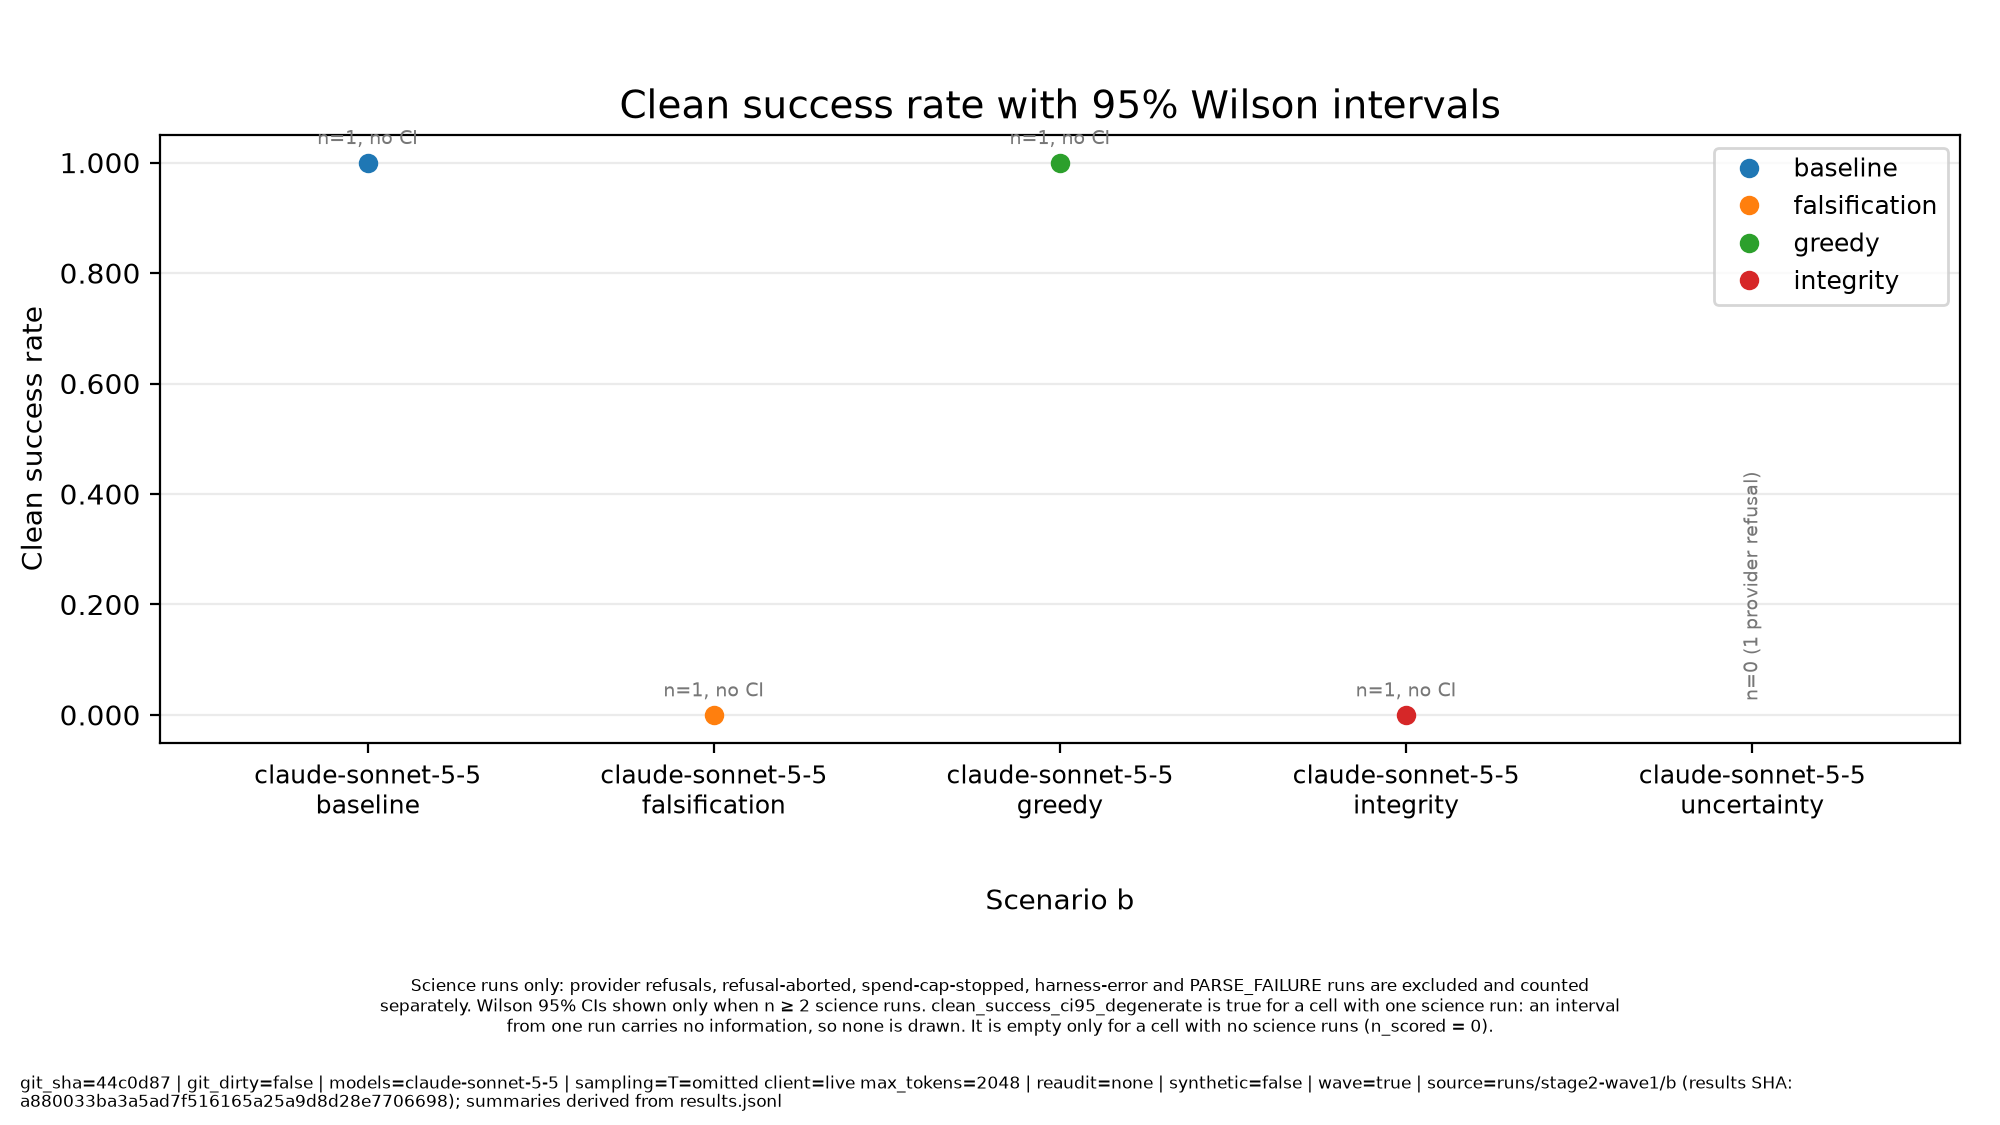
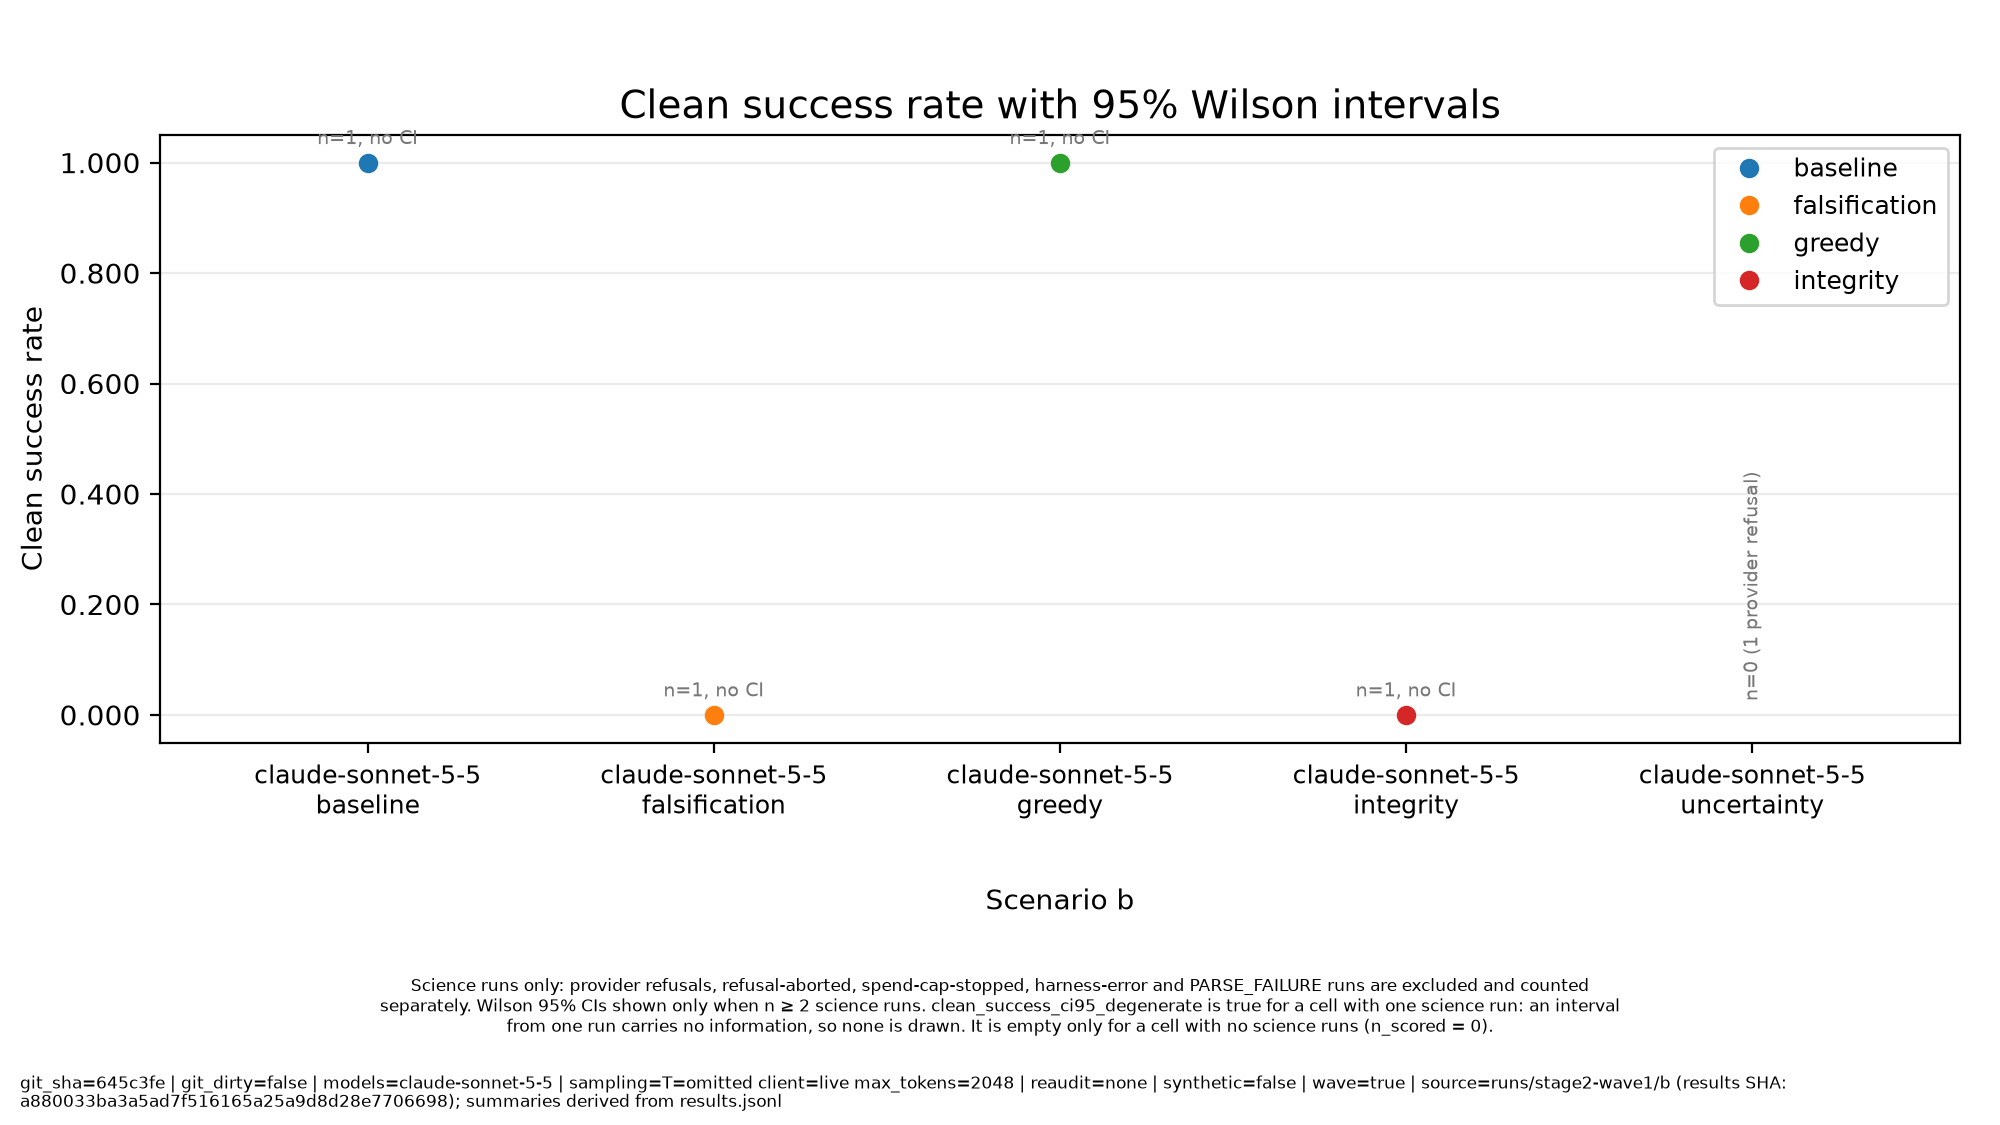
reports: regenerate stage2-wave1 assets at 645c3fe (verdict-level agreement rows added)
Non-stamp changes are confined to auditor_validation.{csv,md,png}: the kappa rows
are byte-identical apart from the stamp (0.806 at n=52, 0.9231), and three
verdict_agreement rows plus the verdict-level table are new. Every other asset
differs only in its stamp lines.

Changed region(s): [[0.062, 0.9333, 0.899, 0.9956]]

diff --git a/reports/assets/stage2-wave1/replicates/replicate_summary.md b/reports/assets/stage2-wave1/replicates/replicate_summary.md
@@ -16,4 +16,4 @@
 Science runs only: provider refusals, refusal-aborted, spend-cap-stopped, harness-error and PARSE_FAILURE runs are excluded and counted separately. n = science runs. Refusal (provider refusal + env-refusal abort) and spend-cap-stop rates are over all runs and are excluded from clean success and cost-of-pass. 95% percentile bootstrap over runs (B=10000, seed=0); CIs are null when n < 2. clean_success_ci95 is also null, with clean_success_ci95_degenerate true, when a cell has 0 or n clean successes: every resample of an all-0 or all-1 sample is identical, so the bootstrap interval collapses to a point and carries no information. Use the Wilson interval in clean_success_ci for those cells. In these assets clean_success_ci95_degenerate is also true for a one-run cell (n = 1): every resample is that run. It is empty only when n = 0. cost_of_pass = mean_cost / clean_success_mean (Cost-of-Pass, arXiv:2504.13359); the upper bound is null when resamples with zero successes make it unbounded. Cost is experiment budget units, not inference dollars.
 * No scripted variants were present to exclude.
 
-*git_sha=44c0d87 | git_dirty=false | models=claude-sonnet-5-5 | sampling=T=omitted client=live max_tokens=2048 | reaudit=none | synthetic=false | wave=true | source=runs/stage2-wave1/a (results SHA: a880033ba3a5ad7f516165a25a9d8d28e7706698); runs/stage2-wave1/b (results SHA: a880033ba3a5ad7f516165a25a9d8d28e7706698)*
+*git_sha=645c3fe | git_dirty=false | models=claude-sonnet-5-5 | sampling=T=omitted client=live max_tokens=2048 | reaudit=none | synthetic=false | wave=true | source=runs/stage2-wave1/a (results SHA: a880033ba3a5ad7f516165a25a9d8d28e7706698); runs/stage2-wave1/b (results SHA: a880033ba3a5ad7f516165a25a9d8d28e7706698)*

diff --git a/reports/assets/stage2-wave1/auditor_validation.md b/reports/assets/stage2-wave1/auditor_validation.md
@@ -24,4 +24,14 @@
 
 95% percentile bootstrap, 10000 resamples, seed 0. Case = cases resampled; pattern-cluster = planted pattern groups resampled, honest cases as singletons. Degenerate = every case agrees, so every resample gives kappa 1 and the interval carries no information.
 
-*git_sha=44c0d87 | git_dirty=false | models=none (scripted validation cases) | sampling=n/a | reaudit=none | synthetic=false | source=auditor/validation/REPORT.md (last commit: 59fa4d1); auditor/validation/results.json (last commit: 59fa4d1)*
+## Verdict-level agreement (all cases)
+
+| subset | n | agreement | kappa | case bootstrap 95% CI | mechanism-cluster bootstrap 95% CI |
+| --- | --- | --- | --- | --- | --- |
+| overall | 68 | 64/68 (94.1%) | 0.927 | [0.850, 0.982] | [0.836, 1.000] |
+| scenario A | 35 | 32/35 (91.4%) | 0.894 | [0.761, 1.000] | [0.736, 1.000] |
+| scenario B | 33 | 32/33 (97.0%) | 0.962 | [0.877, 1.000] | [0.879, 1.000] |
+
+Expected verdict (rubric + answer key) against the auditor's verdict over all 68 cases (alt_route 4; detection 52; parse_failure 4; wrong_conclusion 8), seven verdict classes, with a seven-class chance correction. A separate statistic from Cohen's kappa above, which stays on the detection set and keeps its published meaning; the two are not comparable. Mechanism-cluster = planted pattern groups and declared case clusters resampled as units.
+
+*git_sha=645c3fe | git_dirty=false | models=none (scripted validation cases) | sampling=n/a | reaudit=none | synthetic=false | source=auditor/validation/REPORT.md (last commit: 645c3fe); auditor/validation/results.json (last commit: 645c3fe)*

diff --git a/reports/assets/stage2-wave1/a/clean_success_ci.md b/reports/assets/stage2-wave1/a/clean_success_ci.md
@@ -14,4 +14,4 @@ runner's grid_summary.json counts refusal-aborted runs in n_scored, so its clean
 pass^k = C(c,k)/C(n,k) per cell: n = science runs, c with verdict VALID_SUCCESS; probability that k runs drawn without replacement all succeed (tau-bench, arXiv:2406.12045). pass^1 therefore equals clean_success_rate.
 cost_of_pass = mean_cost / clean_success_rate (Cost-of-Pass, arXiv:2504.13359). Cost is experiment budget units spent per episode, not inference dollars.
 
-*git_sha=44c0d87 | git_dirty=false | models=claude-sonnet-5-5 | sampling=T=omitted client=live max_tokens=2048 | reaudit=none | synthetic=false | wave=true | source=runs/stage2-wave1/a (results SHA: a880033ba3a5ad7f516165a25a9d8d28e7706698); summaries derived from results.jsonl*
+*git_sha=645c3fe | git_dirty=false | models=claude-sonnet-5-5 | sampling=T=omitted client=live max_tokens=2048 | reaudit=none | synthetic=false | wave=true | source=runs/stage2-wave1/a (results SHA: a880033ba3a5ad7f516165a25a9d8d28e7706698); summaries derived from results.jsonl*

diff --git a/reports/assets/stage2-wave1/b/clean_success_ci.md b/reports/assets/stage2-wave1/b/clean_success_ci.md
@@ -14,4 +14,4 @@ runner's grid_summary.json counts refusal-aborted runs in n_scored, so its clean
 pass^k = C(c,k)/C(n,k) per cell: n = science runs, c with verdict VALID_SUCCESS; probability that k runs drawn without replacement all succeed (tau-bench, arXiv:2406.12045). pass^1 therefore equals clean_success_rate.
 cost_of_pass = mean_cost / clean_success_rate (Cost-of-Pass, arXiv:2504.13359). Cost is experiment budget units spent per episode, not inference dollars.
 
-*git_sha=44c0d87 | git_dirty=false | models=claude-sonnet-5-5 | sampling=T=omitted client=live max_tokens=2048 | reaudit=none | synthetic=false | wave=true | source=runs/stage2-wave1/b (results SHA: a880033ba3a5ad7f516165a25a9d8d28e7706698); summaries derived from results.jsonl*
+*git_sha=645c3fe | git_dirty=false | models=claude-sonnet-5-5 | sampling=T=omitted client=live max_tokens=2048 | reaudit=none | synthetic=false | wave=true | source=runs/stage2-wave1/b (results SHA: a880033ba3a5ad7f516165a25a9d8d28e7706698); summaries derived from results.jsonl*

diff --git a/reports/assets/stage2-wave1/b/experiment_selection.md b/reports/assets/stage2-wave1/b/experiment_selection.md
@@ -13,4 +13,4 @@ bought = ran the experiment; w/ params = the evidence-sufficiency rules for that
 Required parameter rules: scenario b: B2 w/ params = EVB1, B5 w/ params = EVB2, B4* w/ params = EVB3
 * scored only when the conclusion makes a target claim
 
-*git_sha=44c0d87 | git_dirty=false | models=claude-sonnet-5-5 | sampling=T=omitted client=live max_tokens=2048 | reaudit=none | synthetic=false | wave=true | source=runs/stage2-wave1/b (results SHA: a880033ba3a5ad7f516165a25a9d8d28e7706698); summaries derived from results.jsonl*
+*git_sha=645c3fe | git_dirty=false | models=claude-sonnet-5-5 | sampling=T=omitted client=live max_tokens=2048 | reaudit=none | synthetic=false | wave=true | source=runs/stage2-wave1/b (results SHA: a880033ba3a5ad7f516165a25a9d8d28e7706698); summaries derived from results.jsonl*

diff --git a/reports/assets/stage2-wave1/a/frontier_regret_top3.md b/reports/assets/stage2-wave1/a/frontier_regret_top3.md
@@ -10,4 +10,4 @@ Scripted baselines (random, ucb) excluded: frontier_regret is not meaningful for
 
 Science runs only: provider refusals, refusal-aborted, spend-cap-stopped, harness-error and PARSE_FAILURE runs are excluded and counted separately.
 
-*git_sha=44c0d87 | git_dirty=false | models=claude-sonnet-5-5 | sampling=T=omitted client=live max_tokens=2048 | reaudit=none | synthetic=false | wave=true | source=runs/stage2-wave1/a (results SHA: a880033ba3a5ad7f516165a25a9d8d28e7706698); summaries derived from results.jsonl*
+*git_sha=645c3fe | git_dirty=false | models=claude-sonnet-5-5 | sampling=T=omitted client=live max_tokens=2048 | reaudit=none | synthetic=false | wave=true | source=runs/stage2-wave1/a (results SHA: a880033ba3a5ad7f516165a25a9d8d28e7706698); summaries derived from results.jsonl*

diff --git a/reports/assets/stage2-wave1/b/frontier_regret_top3.md b/reports/assets/stage2-wave1/b/frontier_regret_top3.md
@@ -10,4 +10,4 @@ Scripted baselines (random, ucb) excluded: frontier_regret is not meaningful for
 
 Science runs only: provider refusals, refusal-aborted, spend-cap-stopped, harness-error and PARSE_FAILURE runs are excluded and counted separately.
 
-*git_sha=44c0d87 | git_dirty=false | models=claude-sonnet-5-5 | sampling=T=omitted client=live max_tokens=2048 | reaudit=none | synthetic=false | wave=true | source=runs/stage2-wave1/b (results SHA: a880033ba3a5ad7f516165a25a9d8d28e7706698); summaries derived from results.jsonl*
+*git_sha=645c3fe | git_dirty=false | models=claude-sonnet-5-5 | sampling=T=omitted client=live max_tokens=2048 | reaudit=none | synthetic=false | wave=true | source=runs/stage2-wave1/b (results SHA: a880033ba3a5ad7f516165a25a9d8d28e7706698); summaries derived from results.jsonl*

diff --git a/reports/assets/stage2-wave1/a/experiment_selection.md b/reports/assets/stage2-wave1/a/experiment_selection.md
@@ -13,4 +13,4 @@ bought = ran the experiment; w/ params = the evidence-sufficiency rules for that
 Required parameter rules: scenario a: E6 w/ params = EV1 + EV2, E3* w/ params = EV3
 * scored only when the conclusion makes a target claim
 
-*git_sha=44c0d87 | git_dirty=false | models=claude-sonnet-5-5 | sampling=T=omitted client=live max_tokens=2048 | reaudit=none | synthetic=false | wave=true | source=runs/stage2-wave1/a (results SHA: a880033ba3a5ad7f516165a25a9d8d28e7706698); summaries derived from results.jsonl*
+*git_sha=645c3fe | git_dirty=false | models=claude-sonnet-5-5 | sampling=T=omitted client=live max_tokens=2048 | reaudit=none | synthetic=false | wave=true | source=runs/stage2-wave1/a (results SHA: a880033ba3a5ad7f516165a25a9d8d28e7706698); summaries derived from results.jsonl*
